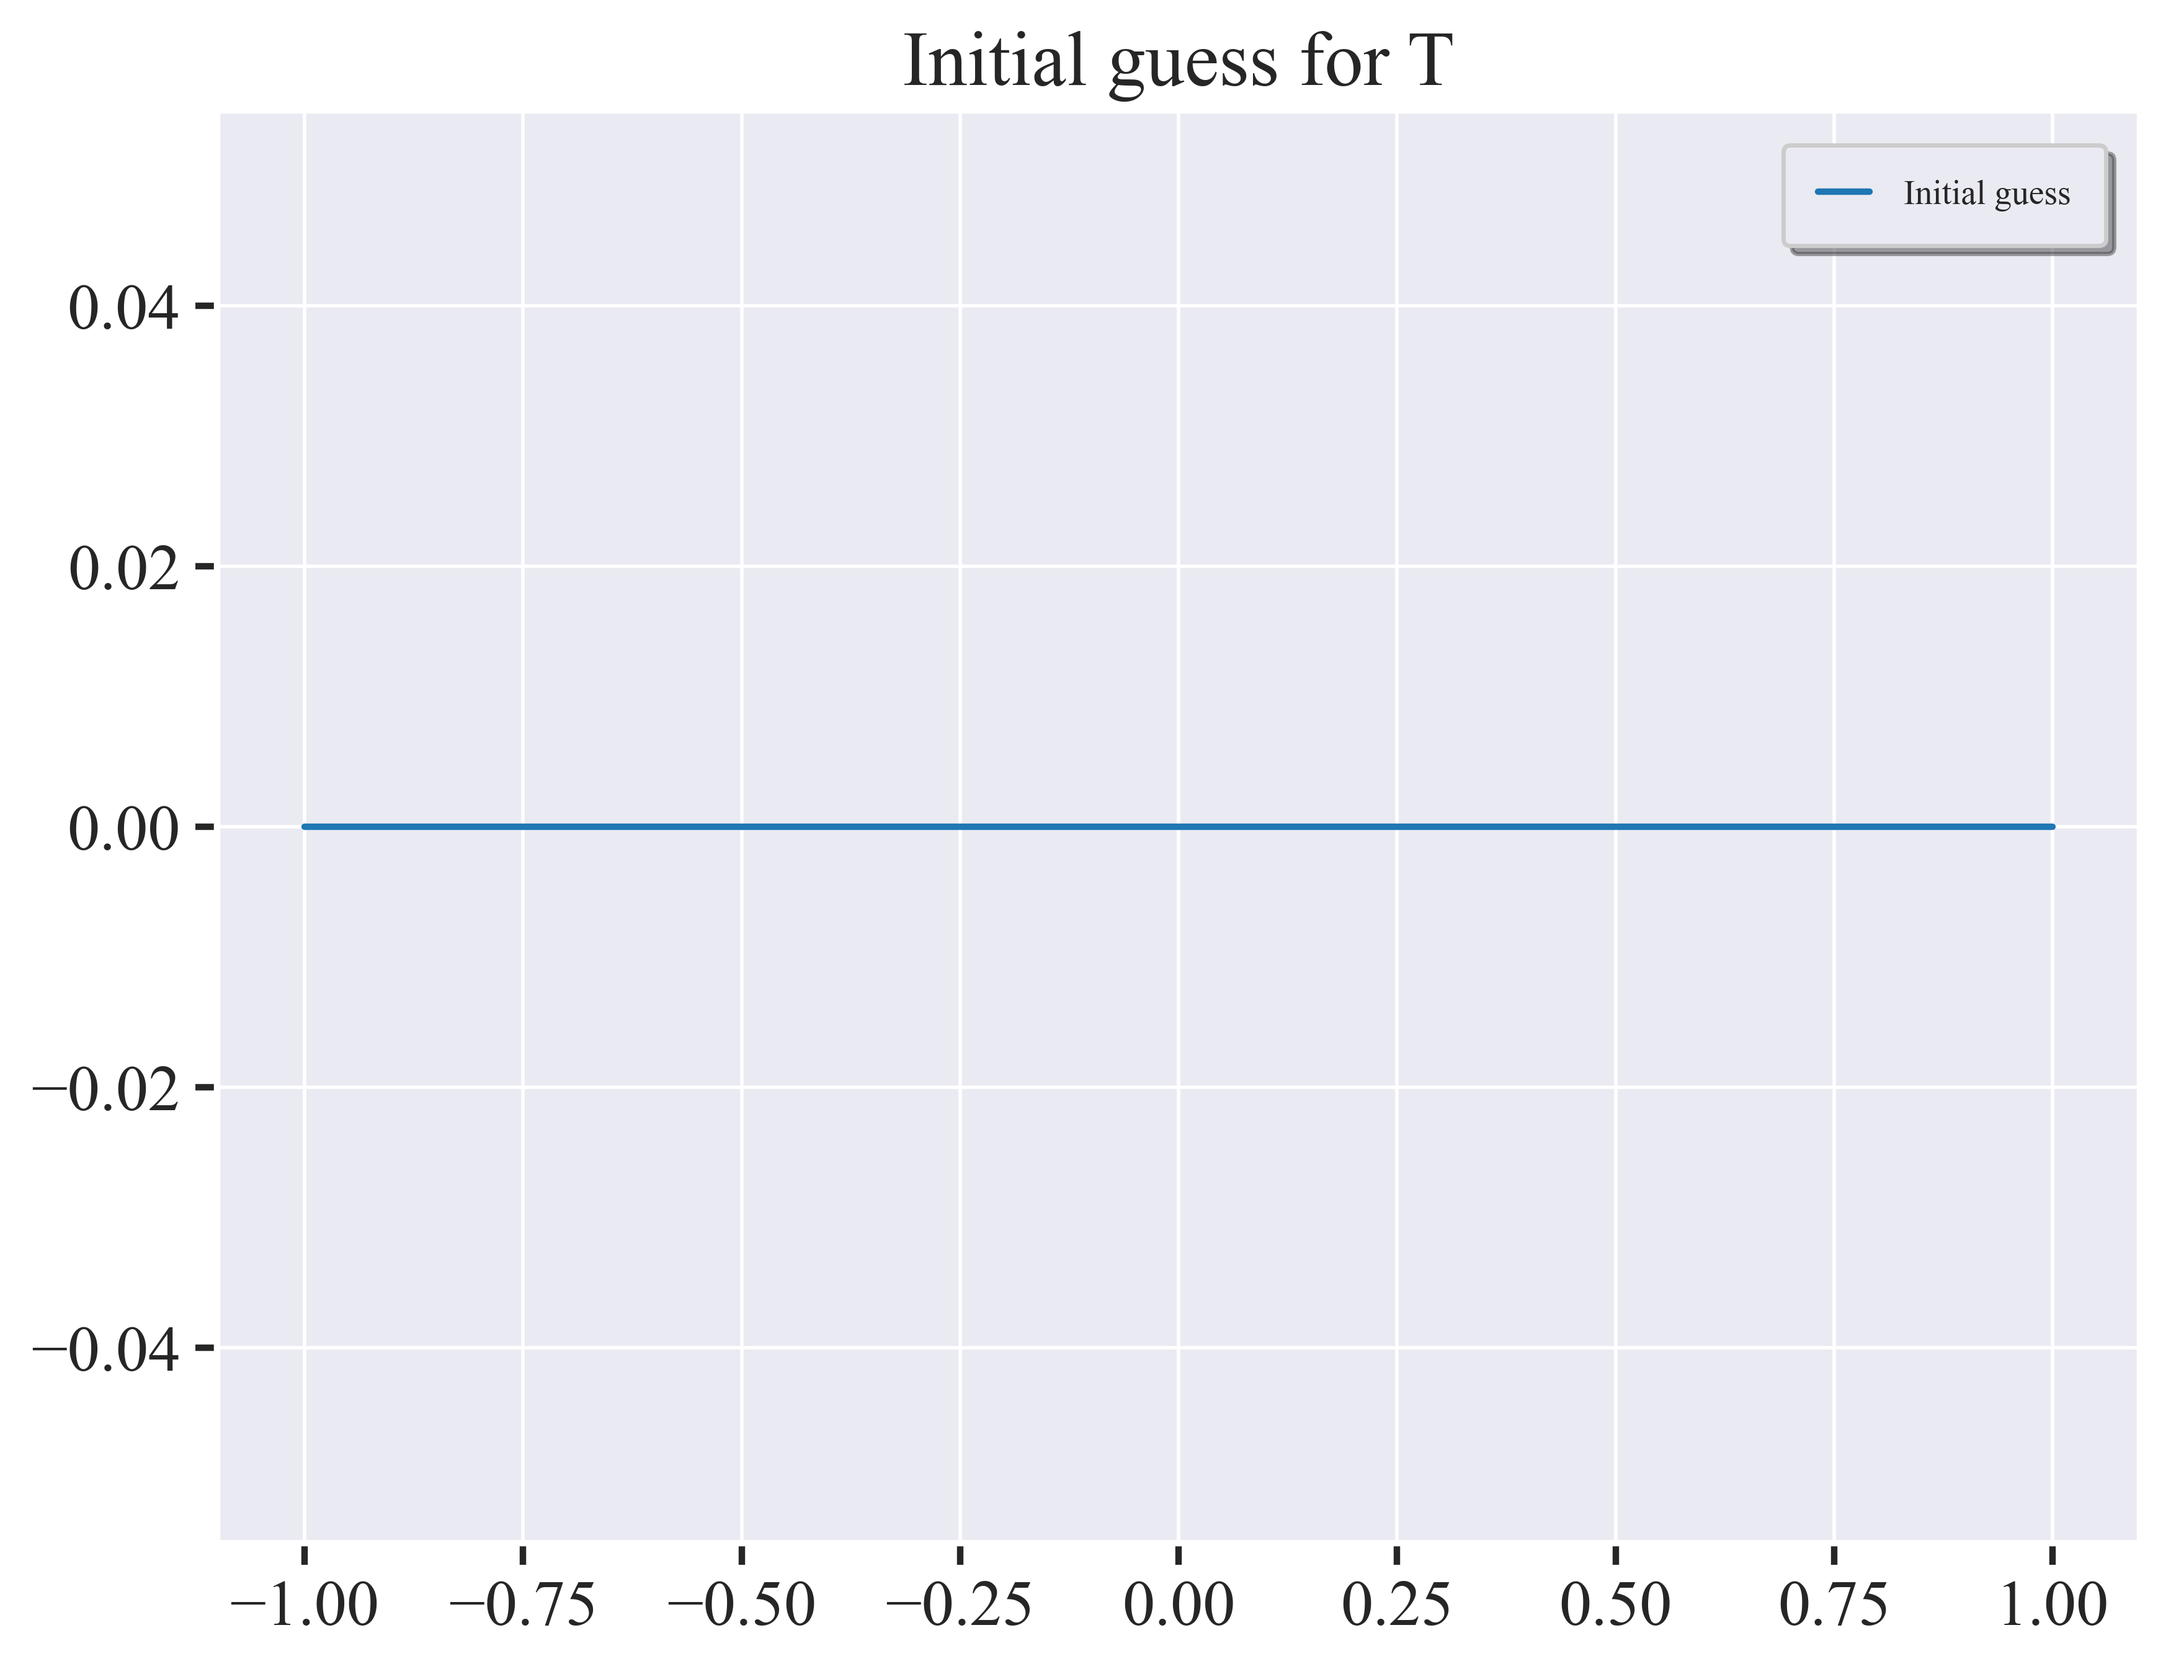
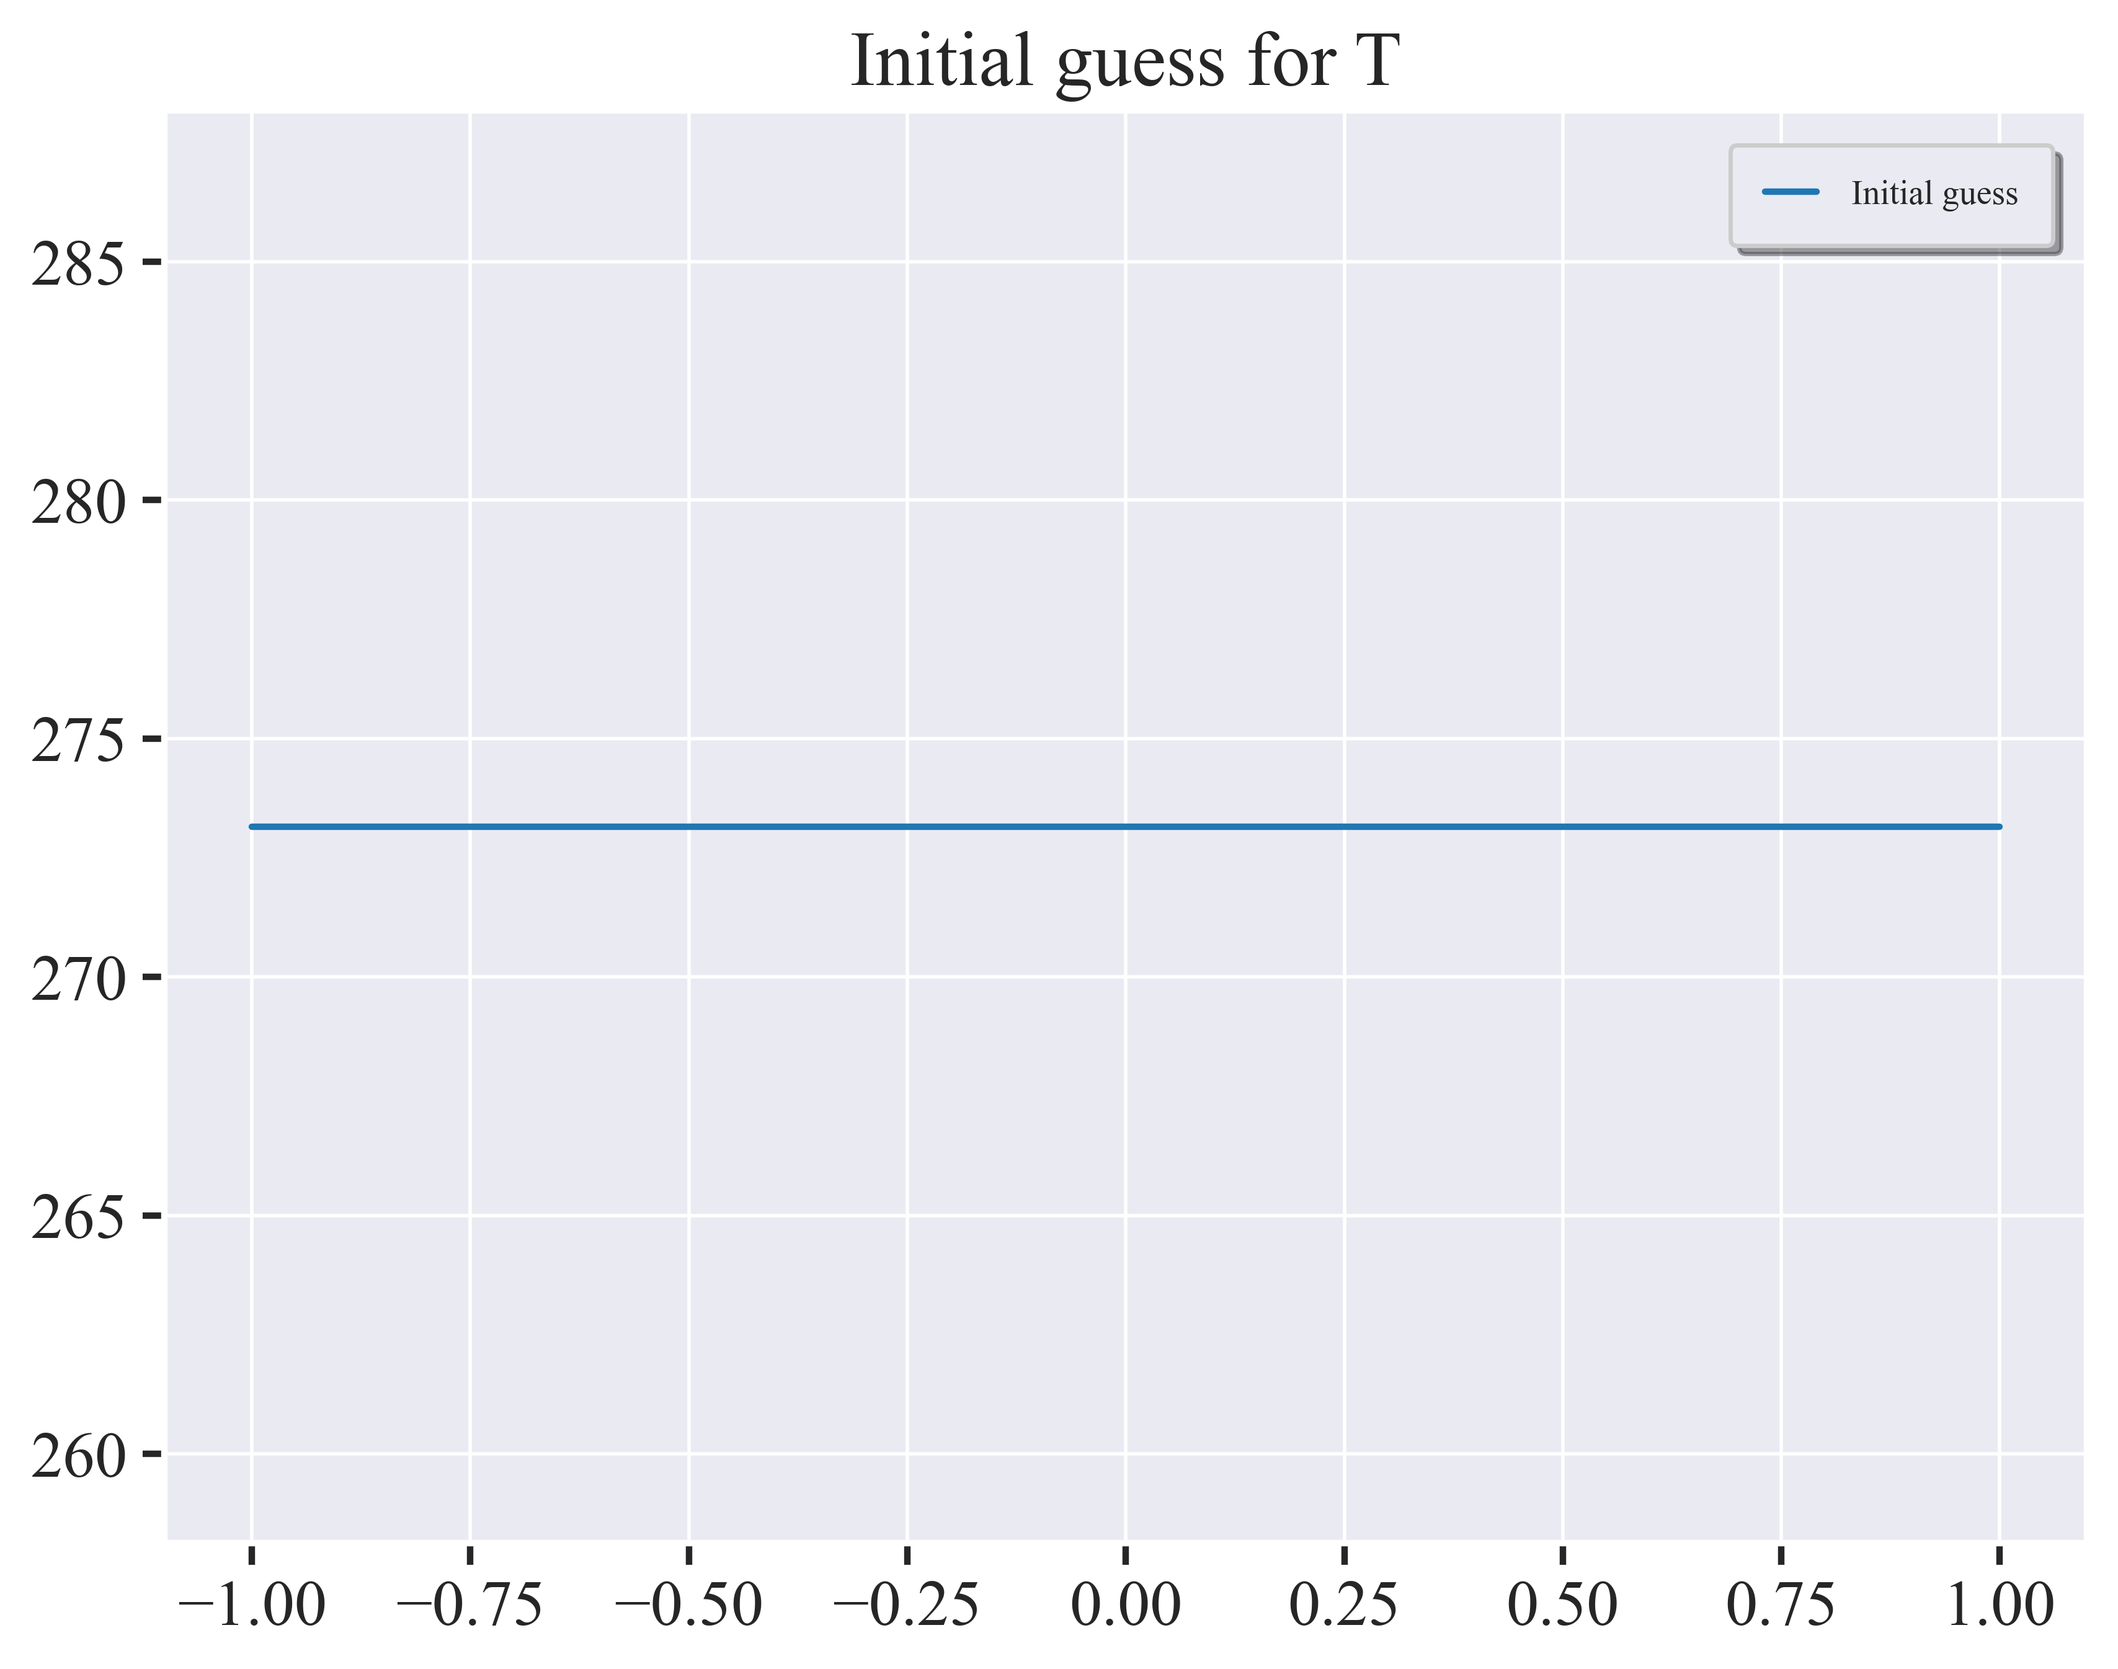
setup experiments script (no convergence of NR yet...)

diff --git a/code/assignment1/non_linear_system.py b/code/assignment1/non_linear_system.py
@@ -15,7 +15,7 @@ class NonLinearSystem:
 
     # problem constants and parameters (capitalized is default value)
     mu_default = 30.0  # greenhouse gas and particle parameter
-    a_1 = 0.278  # albedo of water
+    a_1 = 0.289  # albedo of water
     a_2 = 0.7  # albedo of ice
     T_star = 273.15  # freezing temperature
     delta = 0  # heat flux at poles
@@ -23,7 +23,7 @@ class NonLinearSystem:
     sigma_0 = 5.67e-8  # Stefan-Boltzmann constant
     epsilon_0 = 0.61  # emissivity of the Earth
     C_T = 5.0e8  # heat capacity of the Earth
-    D_default = 0.3 # heat dispersion coefficient
+    D_default = 0.3  # heat dispersion coefficient
 
     def __init__(self, n_polys: int, n_quad_points: int, n_gridpoints: int) -> None:
         self.n_polys = n_polys
@@ -43,6 +43,7 @@ class NonLinearSystem:
 
         # default values of properties
         self._T_coeffs = np.zeros(n_polys)
+        self._T_coeffs[0] = NonLinearSystem.T_star # earth has a homogeneous temperature
         self._mu = NonLinearSystem.mu_default
         self._D = NonLinearSystem.D_default
 
@@ -50,6 +51,7 @@ class NonLinearSystem:
     def generate_legendre_polynomials(self) -> tuple[list, np.ndarray]:
         polys = [legendre(i) for i in range(self.n_polys)]
         eigs = np.array([-i * (i + 1) for i in range(self.n_polys)])
+        norms = np.array([2 / (2 * i + 1) for i in range(self.n_polys)])
         return (polys, eigs)
 
     # Gauss quadrature weights and points
@@ -109,10 +111,11 @@ class NonLinearSystem:
         np.ndarray: vector such that out[i] = int_{-1}{1} [(R_D(T) + R_A(T) - R_E(T))] * phi_i dx
 
         """
-        integrand = self.energy_balance(self.quad_samples)
+        integrand = self.energy_balance()
         test_function = self.legendre_polys
         weak_form = integrand * test_function
-        return weak_form @ self.quad_weights[:, None]
+        # return (weak_form @ self.quad_weights[:, None]).flatten()
+        return weak_form.dot(self.quad_weights)
 
     def evaluate_derivative(self) -> np.ndarray:
         """
@@ -121,30 +124,23 @@ class NonLinearSystem:
         --------
         np.ndarray: matrix such that out[i,j] = int_{-1}{1} [(lambda_j + dR_A(T) - dR_E(T)) * phi_j] * phi_i dx
         """
-        integrand = self.energy_balance_derivative(self.quad_samples)
+        integrand = self.energy_balance_derivative()
         test_function = self.legendre_polys
         weak_form_derivative = np.einsum("is,js->ijs", test_function, integrand)
         return np.einsum("ijs,s->ij", weak_form_derivative, self.quad_weights)
 
     ######## Energy balance terms ########
-    def energy_balance(
-        self,
-        x: np.ndarray,
-    ) -> np.ndarray:
-        T_eval = self.T_eval()  # perform evaluate here not in the functions
-        # to avoid redundant computation
-        return self.R_D() + self.R_A(x, T_eval) - self.R_E(T_eval)
+    def energy_balance(self) -> np.ndarray:
+        T_eval = self.T_eval()
+        return self.R_D() + self.R_A(self.quad_samples, T_eval) - self.R_E(T_eval)
 
-    def energy_balance_derivative(
-        self,
-        x: np.array,
-    ) -> np.ndarray:
+    def energy_balance_derivative(self) -> np.ndarray:
         """
         Evaluate the derivative of the energy balance terms w.r.t. to (the coefficients of) T
         using the coefficients and eigenvalues of the respective Legendre polynomials.
 
         The derivative of the dispersion term are the eigenvalues of the Laplacian
-        multiplied by the Legendre polynomials. The derivative of the solar radiation
+        multiplied by the Legendre polynomials (see dR_d method). The derivative of the solar radiation
         and the black body radiation are their derivative w.r.t. T multiplied by the
         Legendre polynomials (chain rule).
 
@@ -155,8 +151,9 @@ class NonLinearSystem:
         """
         T_eval = self.T_eval()
         return (
-            self.legendre_eigs[:, None] * self.legendre_polys
-            + (self.dR_A(x, T_eval) - self.dR_E(T_eval)) * self.legendre_polys
+            self.dR_D()
+            + (self.dR_A(self.quad_samples, T_eval) - self.dR_E(T_eval))
+            * self.legendre_polys
         )
 
     # solar radiation (R_A)
@@ -200,7 +197,19 @@ class NonLinearSystem:
 
         Returns:
         --------
-        np.ndarray (m,): The dispersion term evaluated at the given coefficients.
-            m is trhe number of sample points.
+        np.ndarray (m,): The dispersion term evaluated for the current T_coeffs
+            and at the m quad_sample points.
         """
-        return (self.legendre_eigs * self.T_coeffs) @ self.legendre_polys
+        return (self.legendre_eigs / self.D * self.T_coeffs) @ self.legendre_polys
+
+    def dR_D(self) -> np.ndarray:
+        """
+        Evaluate the derivative of the dispersion term using the coefficients and eigenvalues
+        of the respective Legendre polynomials.
+
+        Returns:
+        --------
+        np.ndarray (n, m): The derivative of the dispersion term evaluated at the given coefficients.
+            m is the number of sample points and n is the number of Legendre polynomials.
+        """
+        return self.legendre_eigs[:, None] / self.D * self.legendre_polys

diff --git a/code/assignment1/newton_raphson.py b/code/assignment1/newton_raphson.py
@@ -1,66 +1,44 @@
 import numpy as np
-import matplotlib.pyplot as plt
-from pprint import pprint
-from custom_pyutils import pyutils
-from typing import Callable
-from timeit import timeit
 from non_linear_system import NonLinearSystem
 from tqdm import tqdm
 
+class NewtonRaphson:
 
-# set figure output directory
-root = pyutils.get_root()
-output_dir = root / "report" / "figures"
-print(f"Output directory:\n  {output_dir}")
+    def __init__(self, tolerance: float = 1e-6, maxiter: int = 100) -> None:
+        self.tolerance = tolerance
+        self.maxiter = maxiter
+        
+    def run(self, NLS: NonLinearSystem) -> np.ndarray:
+        e_k = 2 * self.tolerance
+        errors = [e_k]
+        i = 0
+        print("Running Newton-Raphson method...")
+        pbar = tqdm(desc="", total=self.maxiter, unit="NR update", miniters=5)
+        while e_k > self.tolerance:
+            pbar.set_description(f"iteration: {i}, error: {errors[i]:.2e}, tolerance: {self.tolerance:.2e}, maxiter: {self.maxiter}")
+            if i == self.maxiter:
+                pbar.close()
+                print(
+                    "Newton-Raphson method did not converge within the maximum number of iterations. Exiting..."
+                )
+                break
 
-# set standard matplotlib style
-pyutils.set_style()
+            # perform coefficient update
+            F_k = NLS.evaluate()
+            F_t_k = NLS.evaluate_derivative()
+            update = np.linalg.solve(F_t_k, F_k)
+            NLS.T_coeffs -= update
 
-############### Computation parameters ####################
-n = 10  # number of Legendre polynomials
-number_of_quad_points = 2 * n  # number of quadrature points
-grid_resolution = 100  # resolution of the grid
-tolerance = 1e-6  # tolerance for Newton-Raphson method
+            # calculate current error
+            e_k = np.linalg.norm(F_k - NLS.T_coeffs)
+            errors.append(e_k)
 
-############### Setup Non-linear System of Equations ####################
-NLS = NonLinearSystem(n, number_of_quad_points, grid_resolution)
+            # set iteration counter
+            i += 1
+        
+        if e_k <= self.tolerance:
+            pbar.close()
+            print("Newton-Raphson converged.")
 
-print("Problem constants:\n  ", end="")
-pprint({k: v for k, v in NLS.__dict__.items()})
+        return errors
 
-print("Plotting initial guess for T...")
-T_initial = NLS.T_x(NLS.x)
-plt.close()
-plt.plot(NLS.x, T_initial, label="Initial guess")
-plt.title("Initial guess for T")
-plt.legend(fontsize=8)
-fn = output_dir / "initial_guess_T.png"
-plt.savefig(fn, dpi=500)
-print("Saved initial guess for T to:\n  ", fn)
-
-################### Newton-Raphson Method ####################
-errors = [2 * tolerance]
-maxiter = 100
-i = 0  # iteration counter
-print("Running Newton-Raphson method...")
-pbar = tqdm(desc="", total=maxiter, unit="NR update", miniters=1)
-while errors[i] > tolerance:
-    if i == maxiter:
-        print(
-            "Newton-Raphson method did not converge within the maximum number of iterations. Exiting..."
-        )
-        break
-
-    errors.append(
-        np.linalg.norm(NLS.evaluate() - NLS.T_coeffs)
-    )  # error is the norm of the residual
-    # TODO: fix the coefficient update (probably something wrong with the corr. getter/setter)
-    NLS.T_coeffs = NLS.T_coeffs - np.linalg.solve(
-        NLS.evaluate_derivative(), NLS.T_coeffs
-    )  # update T_coeff
-    i += 1  # increment iteration counter
-    pbar.set_description(
-        f"iteration: {i}, error: {errors[i]:.2e}"
-    )  # update progress bar
-
-print(NLS.T_coeffs)

diff --git a/code/assignment1/experiments.py b/code/assignment1/experiments.py
@@ -1,0 +1,54 @@
+import numpy as np
+import matplotlib.pyplot as plt
+from pprint import pprint
+from custom_pyutils import pyutils
+from typing import Callable
+from timeit import timeit
+from non_linear_system import NonLinearSystem
+from newton_raphson import NewtonRaphson
+from tqdm import tqdm
+
+
+# set figure output directory
+root = pyutils.get_root()
+output_dir = root / "report" / "figures"
+print(f"Output directory:\n  {output_dir}")
+
+# set standard matplotlib style
+pyutils.set_style()
+
+############### Computation parameters ####################
+n = 10  # number of Legendre polynomials
+number_of_quad_points = 2 * n  # number of quadrature points
+grid_resolution = 100  # resolution of the grid
+
+############### Setup Non-linear System of Equations ####################
+NLS = NonLinearSystem(n, number_of_quad_points, grid_resolution)
+legendre_polys_norm = np.array([2*(2*i + 1) for i in range(n)])
+# print("Problem constants:\n  ", end="")
+# pprint({k: v for k, v in NLS.__dict__.items()})
+
+print("Plotting initial guess for T...")
+T_initial = NLS.T_x(NLS.x)
+plt.close()
+plt.plot(NLS.x, T_initial, label="Initial guess")
+plt.title("Initial guess for T")
+plt.legend(fontsize=8)
+fn = output_dir / "initial_guess_T.png"
+plt.savefig(fn, dpi=500)
+print("Saved initial guess for T to:\n  ", fn)
+
+################### Newton-Raphson Method ####################
+NR = NewtonRaphson()
+errors = NR.run(NLS)
+
+# plot error convergence
+plt.close()
+plt.plot(errors[1:])
+plt.title("Error convergence")
+plt.xlabel("Iteration")
+plt.ylabel("Error")
+plt.yscale("log")
+fn = output_dir / "error_convergence.png"
+plt.savefig(fn, dpi=500)
+print("Saved error convergence to:\n  ", fn)

diff --git a/report/sections/assignment1.tex b/report/sections/assignment1.tex
@@ -16,7 +16,7 @@
         $Q_0 $ & $J s^{-1} m^{-2}$ & solar radiation constant & 341.3\\
         $\alpha$ & - & albedo of Earth & -\\
         $\alpha_1$ & - & albedo of ice & 0.7\\
-        $\alpha_2$ & - & albedo of water & 0.278\\
+        $\alpha_2$ & - & albedo of water & 0.289\\
         $T^{*} K$ & - & temperature at which ice melts & 273.15\\
         $M$ & $K^{-1}$ & temperature gradient (?) & -\\
         $\mu $ & $J s^{-1} m^{-2}$ & greenhouse gas \& fine particle parameter & 30\\
